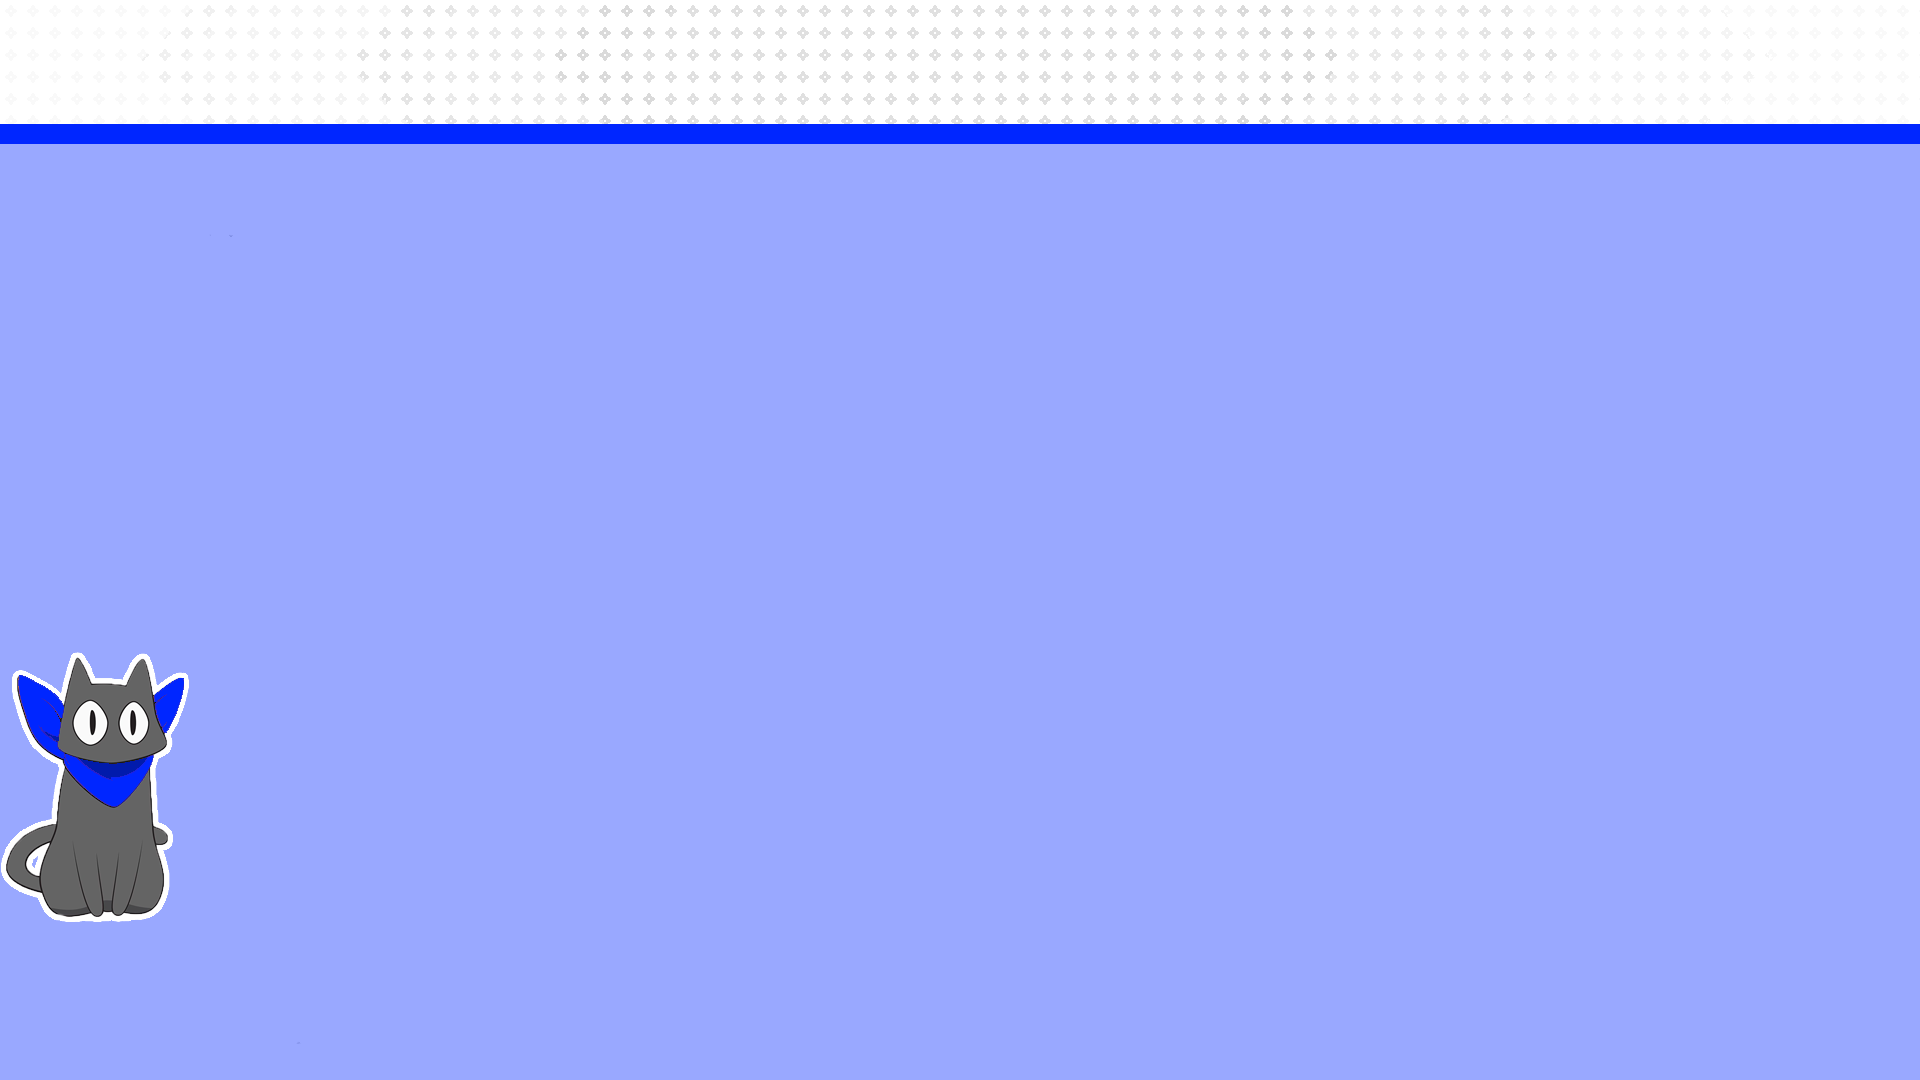
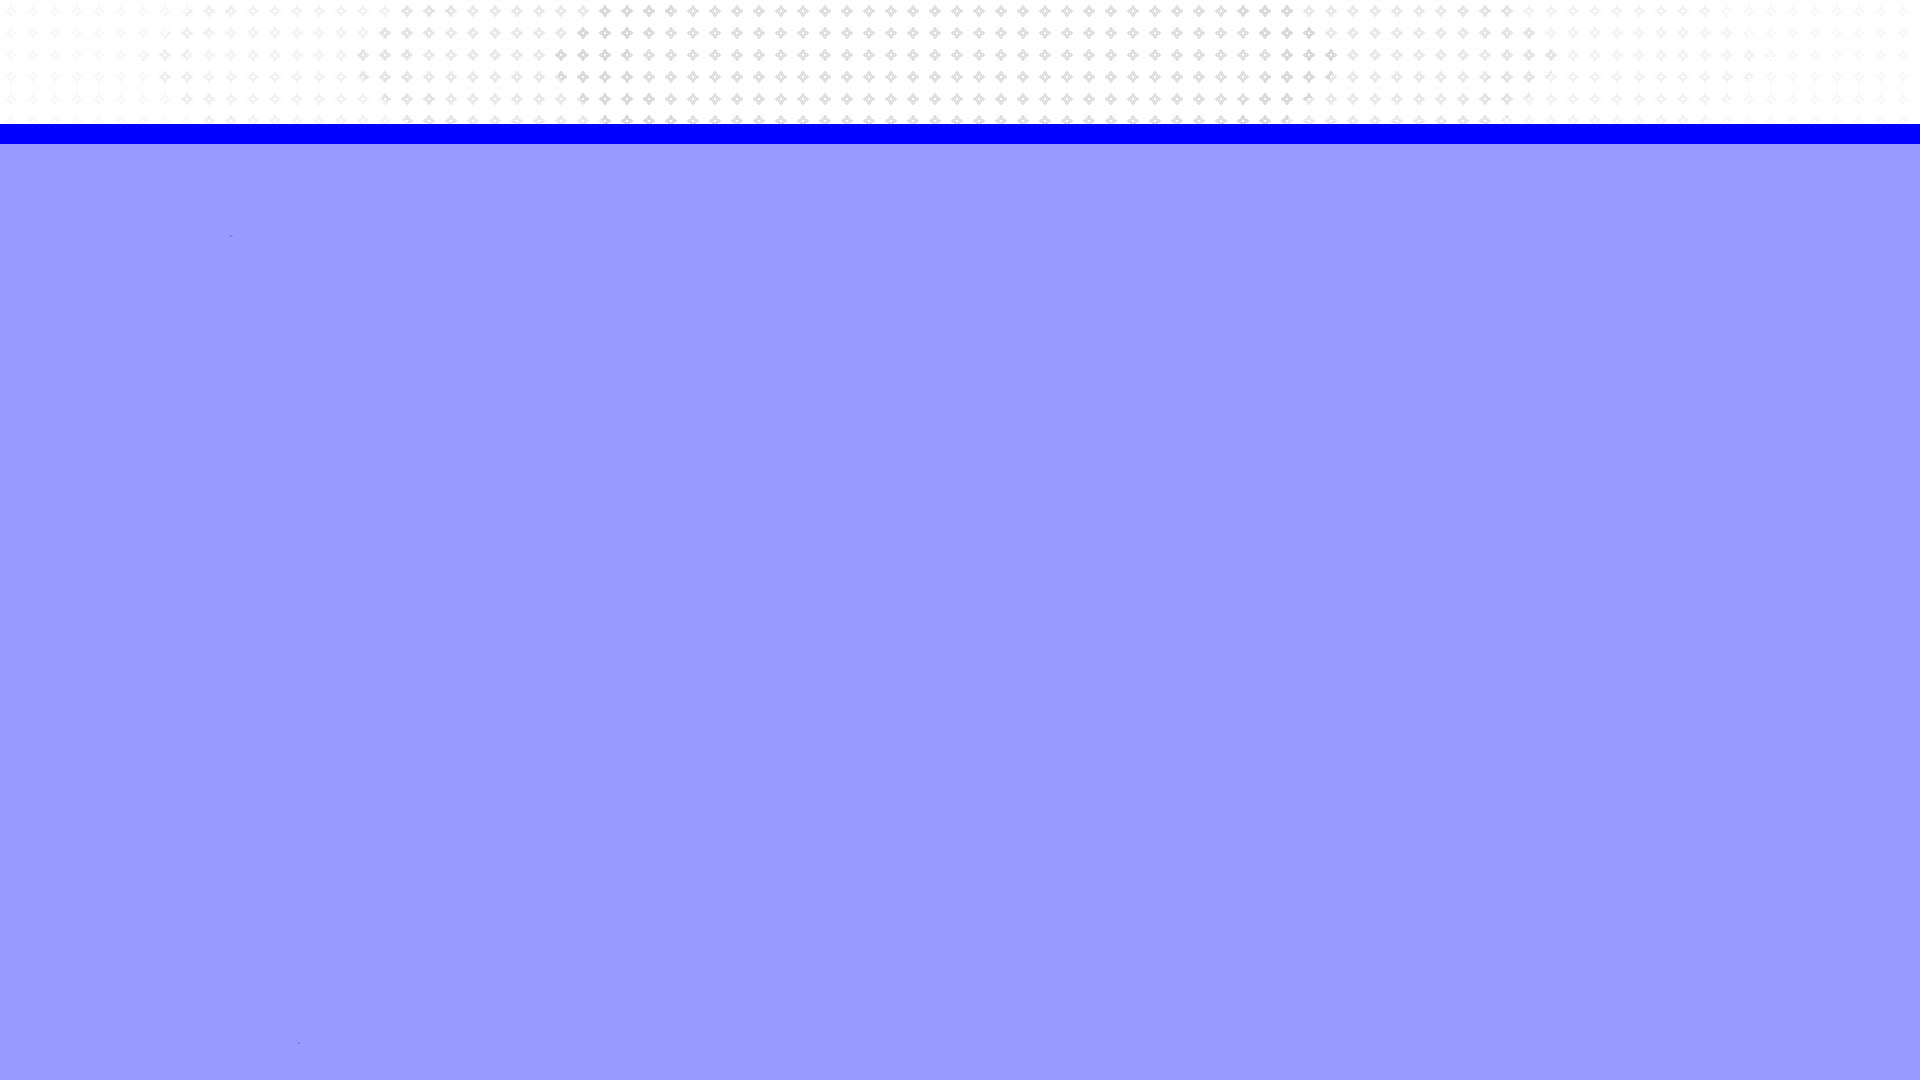
css fix
made the cat (sakamoto) stay at the bottom of the screen no matter the size of the screen.

Changed region(s): [[0.0, 0.0917, 1.0, 0.1528], [0.0, 0.6111, 0.0938, 0.8556]]

diff --git a/application/public/css/style.css b/application/public/css/style.css
@@ -187,14 +187,6 @@ body.postpage{
 body.viewpage{
   background-image: url(purpleback.png);
 }
-.footer{
-  color: white;
-  text-align: center;
-  position: absolute;
-  top: 95%;
-  left: 50%;
-  transform: translate(-50%, -50%);
-}
 .article{
   margin-top: 30px;
 }
@@ -337,4 +329,17 @@ input[type="file" i] {
   font-size: 20px;
   margin-top: 30px;
   margin-bottom: 30px;
+}
+.cat{
+  position: fixed;
+  bottom: 0;
+  width: 100%;
+}
+.footer{
+  color: white;
+  text-align: center;
+  position: absolute;
+  top: 95%;
+  left: 50%;
+  transform: translate(-50%, -50%);
 }

diff --git a/application/public/html/viewpost.html b/application/public/html/viewpost.html
@@ -34,6 +34,9 @@
         <div class="postImage">
             <img src="https://static.wikia.nocookie.net/nichijou/images/2/26/Sakamoto.png/revision/latest/scale-to-width-down/238?cb=20190531163434">
         </div>
+    </div>
+    <div class="cat">
+        <img src="..\css\sakamotopurple.png">
     </div> 
 </body>
 </html>

diff --git a/application/public/html/Index.html b/application/public/html/Index.html
@@ -25,6 +25,9 @@
             <img src="https://fakeimg.pl/300/">
         </main>
     </div> 
+    <div class="cat">
+        <img src="..\css\sakamotored.png">
+    </div>
     <div class="footer">
         © Lily Keus
     </div>

diff --git a/application/public/html/login.html b/application/public/html/login.html
@@ -30,5 +30,8 @@
             <input class="logsub" type="submit" value="Log In">
         </form>
     </div> 
+    <div class="cat">
+        <img src="..\css\sakamotoyellow.png">
+    </div>
 </body>
 </html>

diff --git a/application/public/html/registration.html b/application/public/html/registration.html
@@ -42,5 +42,8 @@
             <input class="regsub" type="submit" value="Register">
         </form>
     </div>
+    <div class="cat">
+        <img src="..\css\sakamotogreen.png">
+    </div>
 </body>
 </html>

diff --git a/application/public/html/postimage.html b/application/public/html/postimage.html
@@ -35,5 +35,8 @@
             <input class="postsub" type="submit" value="Post">
         </form>
     </div> 
+    <div class="cat">
+        <img src="..\css\sakamotoblue.png">
+    </div>
 </body>
 </html>
